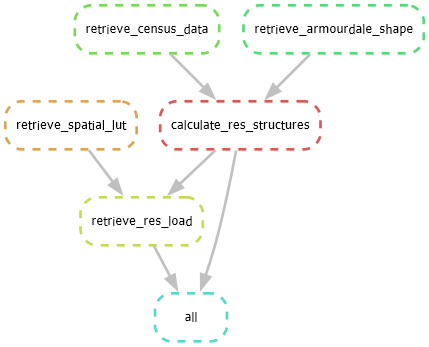
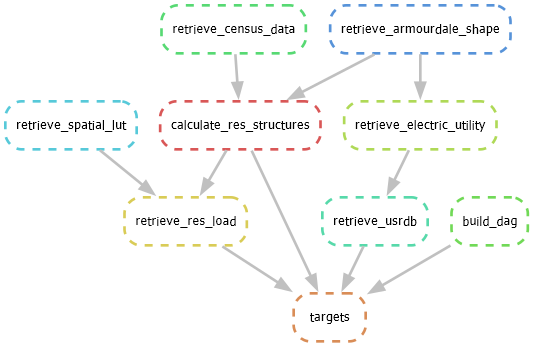
adds steps to get relevant utility rates (no processing)

diff --git a/utils/api_functions.py b/utils/api_functions.py
@@ -13,6 +13,43 @@ _TIGER_URL = "https://www2.census.gov/geo/tiger/"
 _RETAIL_SERVICE_URL = ("https://services1.arcgis.com/Hp6G80Pky0om7QvQ/"
                       "arcgis/rest/services/Retail_Service_Territories/"
                       "FeatureServer/0/query?")
+AVAILABLE_COLUMNS = [
+"ID",
+"NAME",
+"ADDRESS",
+"CITY",
+"STATE",
+"ZIP",
+"TELEPHONE",
+"TYPE",
+"COUNTRY",
+"NAICS_CODE",
+"NAICS_DESC",
+"SOURCE",
+"SOURCEDATE",
+"VAL_METHOD",
+"VAL_DATE",
+"WEBSITE",
+"REGULATED",
+"CNTRL_AREA",
+"PLAN_AREA",
+"HOLDING_CO",
+"SUMMR_PEAK",
+"WINTR_PEAK",
+"SUMMER_CAP",
+"WINTER_CAP",
+"NET_GEN",
+"PURCHASED",
+"NET_EX",
+"RETAIL_MWH",
+"WSALE_MWH",
+"TOTAL_MWH",
+"TRANS_MWH",
+"CUSTOMERS",
+"YEAR",
+"Shape__Area",
+"Shape__Length"]
+
 RETAIL_SERVICE_COLUMNS = ["CNTRL_AREA",
                           "PLAN_AREA",
                           "HOLDING_CO",
@@ -78,6 +115,17 @@ def get_retail_service_area(state_name=None,
     except AssertionError as error:
         raise error
     
+    if columns != RETAIL_SERVICE_COLUMNS:
+        for col in columns:
+            if col not in AVAILABLE_COLUMNS:
+                print(f"{col} not in available columns. Must be one of:\n {AVAILABLE_COLUMNS}")
+                raise KeyError
+    
     state_field = f"where=STATE%20%3D%20'{state.abbr}'" if state_name else ""
     crs_field = f"outSR={crs}"
     format_field = f"f=json"
+    return_fields = f"outFields={','.join(columns)}"
+    
+    params = "&".join([state_field, return_fields, crs_field, format_field])
+    
+    return _RETAIL_SERVICE_URL+params

diff --git a/scripts/retrieve_usrdb.py b/scripts/retrieve_usrdb.py
@@ -1,7 +1,38 @@
 import pandas as pd
+import geopandas as gpd
+import datetime as dt
 
 
 if __name__ == "__main__":
     
+    if snakemake.config['usrdb_start_date'].lower() == 'today':
+        start_date = pd.to_datetime(dt.date.today())
+    else:
+        start_date = pd.to_datetime(snakemake.config['usrdb_start_date'])
+        
+    future_date = pd.to_datetime("2099-01-01")
+    
     URL = "https://apps.openei.org/USURDB/download/usurdb.csv.gz"
     usrdb = pd.read_csv(URL, low_memory=False, parse_dates=True)
+    
+    # filter by date
+    usrdb.loc[:,'enddate'] = pd.to_datetime(usrdb['enddate'].fillna(future_date))
+    usrdb.loc[:,'startdate'] = pd.to_datetime(usrdb['startdate'])
+    usrdb = usrdb[(usrdb['enddate'] > start_date)]
+    
+    # get utility info
+    utility_service = gpd.read_file(snakemake.input.utility)
+    utility_ids = utility_service.loc[:, 'ID'].values.astype(int)
+
+    sectors = [sector.capitalize() 
+               for sector 
+               in snakemake.config['energy_sectors']]
+    
+    # filter by utility and sector
+    usrdb = usrdb.loc[usrdb['eiaid'].isin(utility_ids)]
+    usrdb = usrdb.loc[usrdb['sector'].isin(sectors)]
+    
+    # filter: is default?
+    usrdb = usrdb[usrdb['is_default']].dropna(how='all',axis=1)
+    
+    usrdb.to_csv(snakemake.output.rates)

diff --git a/scripts/retrieve_electric_utility.py b/scripts/retrieve_electric_utility.py
@@ -1,0 +1,23 @@
+import pandas as pd
+import geopandas as gpd
+import sys
+
+sys.path.append("utils")
+
+from api_functions import get_retail_service_area
+
+
+
+
+if __name__ == "__main__":
+    state_name = snakemake.config['state']
+    
+    cutout = gpd.read_file(snakemake.input.cutout)
+    
+    url = get_retail_service_area(state_name=state_name)
+    
+    service_gdf = gpd.read_file(url)
+    
+    service_gdf = service_gdf.sjoin(cutout)
+    
+    service_gdf.to_file(snakemake.output.utility)
